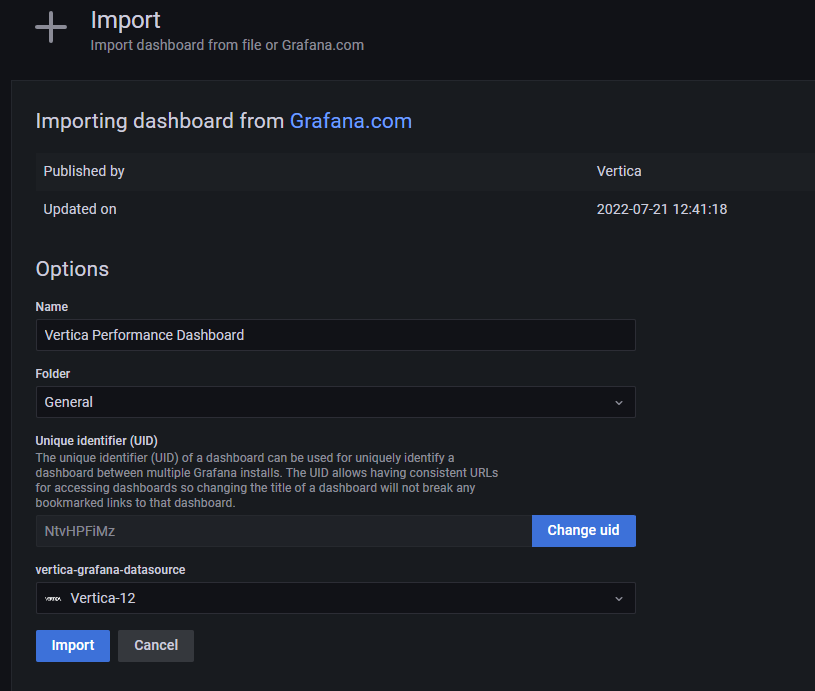
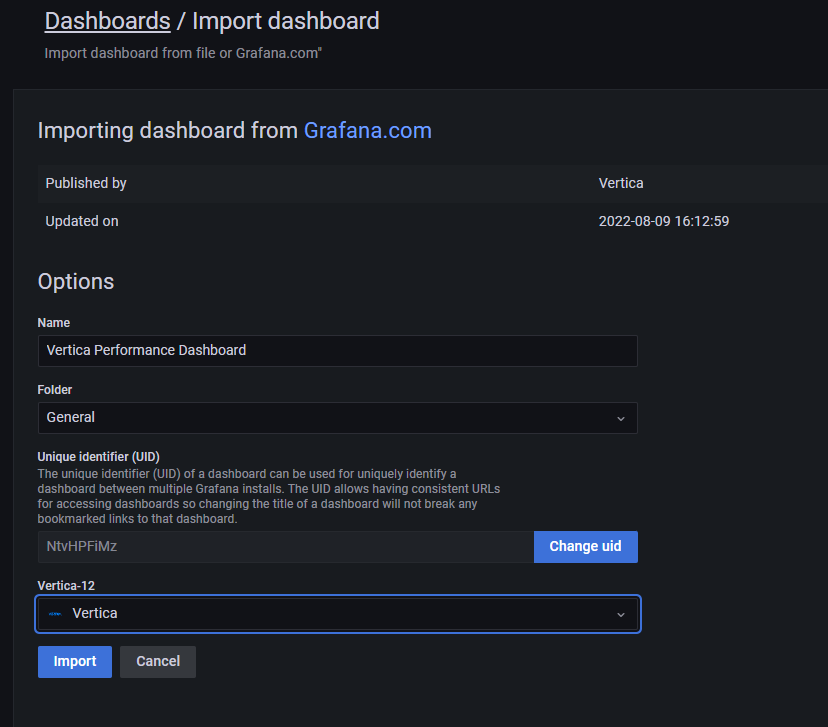
Update README and images

diff --git a/README.md b/README.md
@@ -35,6 +35,8 @@ After you add the Vertica data source, you need to configure it by entering the 
 | `User`  | Database username. |
 | `Password`  | Database user password. |
 | `SSL Mode`  | Determines whether or with what priority a secure SSL TCP/IP connection will be negotiated with the server. When SSL Mode is disabled, SSL Method and Auth Details are not visible. |
+| `Use Backup Server Node`  | To enable backup hosts on server side. |
+| ` Backup Server Node List`  | Comma delimited list of backup hosts for the client to try to connect if the primary host is unreachable. |
 | `Use Connection Load Balancing`  | To enable connection load balancing on the client-side.|
 | `Max Open Connections` |  Maximum number of connections a user can open concurrently on individual nodes or across the database cluster.|
 | `Max Ideal Connections` | Maximum number of idle connections. This number should be less than or equal to Max Open Connections. |
@@ -45,9 +47,6 @@ For more information on managing client connections, see [Managing Client Connec
 
 ![Data Source Config](https://github.com/vertica/vertica-grafana-datasource/blob/main/src/img/datasource-config.png)
 
-**Note:** *We recently found a bug in the connection pooling parameters which does not set them as expected. This bug affects loading of the dashboards where the panels come up empty/blank and show ‘test 1’ error.*
-
-*For now, a workaround for this issue is to not change the connection pooling parameters and set them as ‘0’ for all the three options- **Max Open Connections, Max Ideal Connections, Max Connection Ideal Time**. It is not efficient to open up multiple connections for each query but we are working to resolve it soon.*
 
 ## User Permission 
 When you add the data source, the database user you specify must only be granted SELECT permissions on the specified database and tables you want to query. Grafana does not validate that the query is safe. The query could include any SQL statement. For example, statements like `DELETE FROM user;`  and  `DROP TABLE user;`  will be executed. We **highly** recommend you create a specific Vertica user with restricted permissions.
@@ -101,7 +100,9 @@ To group by time or other columns, click the plus button to the right of the GRO
 Grafana fills in missing values when you group by time. The time function accepts two arguments. The first argument is the time window that you want to group by, and the second argument is the value you want Grafana to fill missing items with.
 
 ### Raw Query Mode
-To switch to the raw query mode, click `Edit SQL`. You can also click `Query Inspector` to view the raw query. 
+To switch to the raw query mode, click `Edit SQL`. You can also click `Query Inspector` to view the raw query.
+You can now use the new Auto-completion feature in Raw Query Mode to predict keywords in your queries as you type.
+To run your query, click `Run Query`.
 
 **Note:** If you use the raw query mode, ensure your query at minimum has `ORDER BY time` and a filter on the returned time range.
 
@@ -159,11 +160,11 @@ For the plugin to load, add the following configuration parameter to the  `/etc/
 
 **Note:** This plugin is tested in **Linux(Ubuntu)** with the following  versions:
 
-* Grafana - v7.5.5 and 8.0.0
-* NodeJS - v16.1.0
-* Yarn - v1.22.5
-* Npm - v7.11.2
-* Go - v1.6.2
+* Grafana - v9.3.6
+* NodeJS - v16.10.0
+* Yarn - v1.22.19
+* Npm - v7.24.0
+* Go - v1.20.1
  
 ### Installing Vertica Grafana Data Source Plugin 
 **Note:** If you have the older version of the Vertica Grafana plugin, remove it using grafana-cli:
